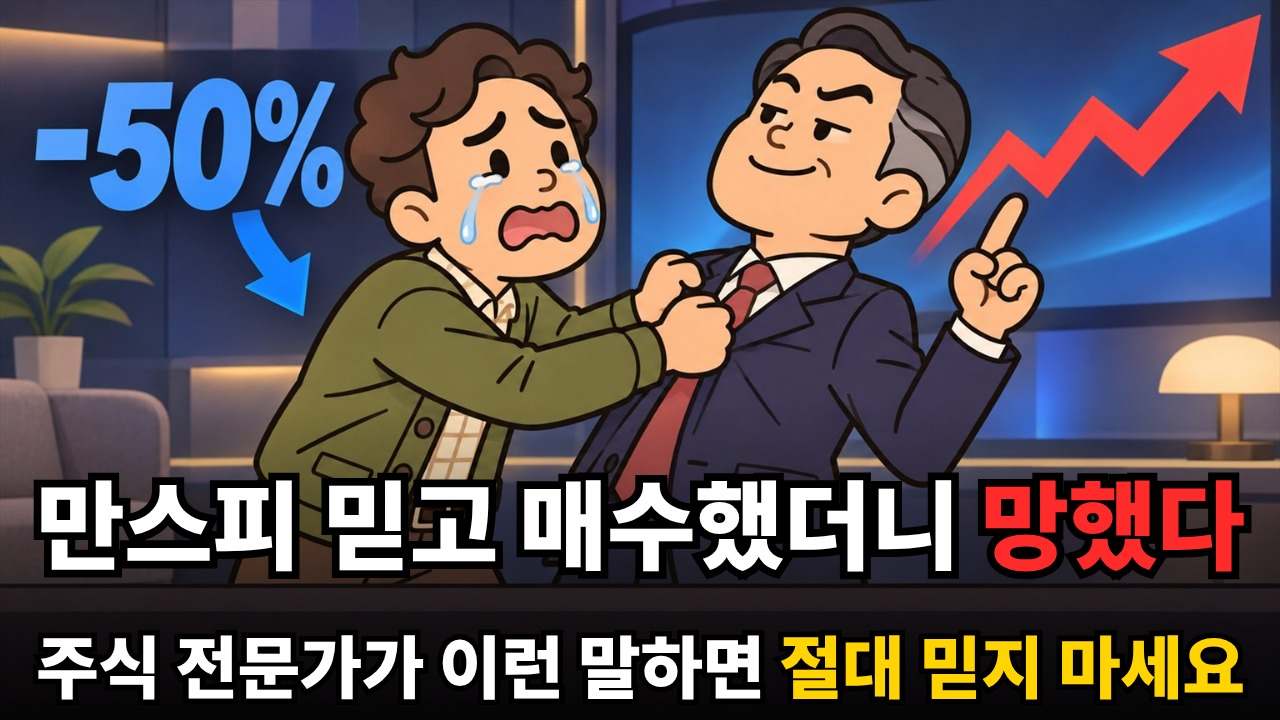
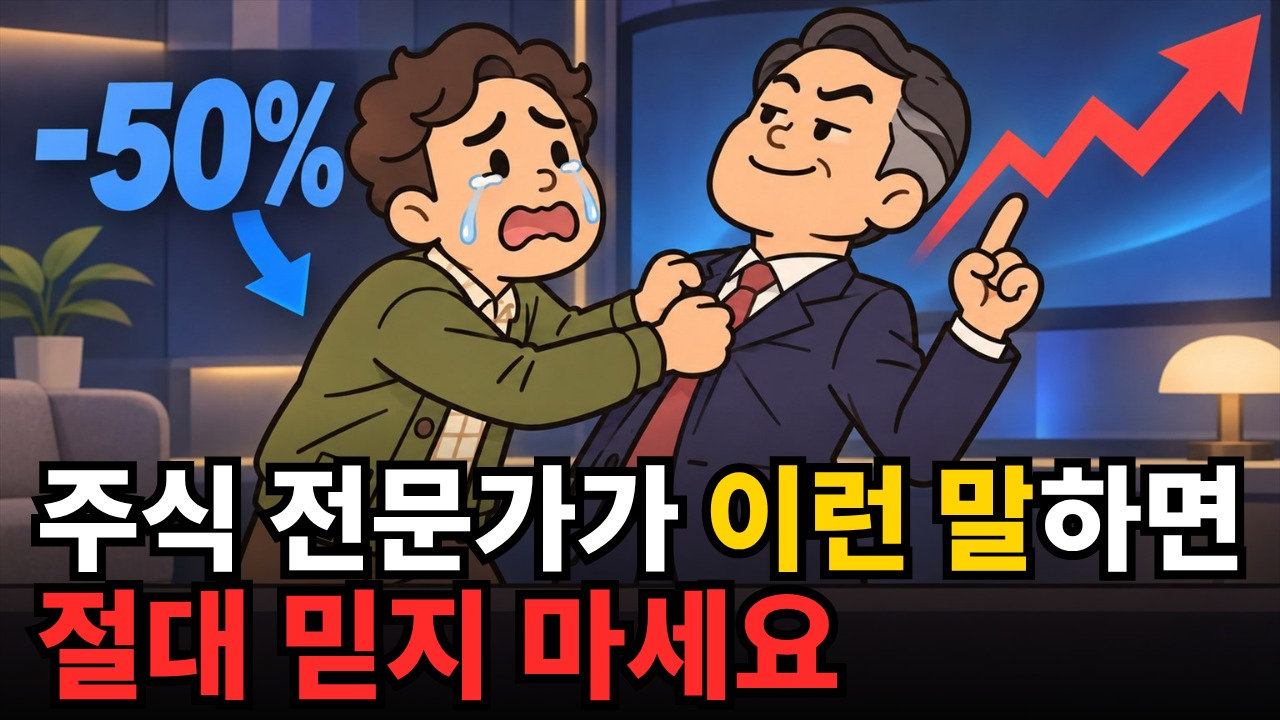
[stock] 만스피 편 롱폼 썸네일 — 문구를 '주식 전문가가 이런 말하면 / 절대 믿지 마세요' 두 줄로 (사용자 지시)
Claude-Session: https://claude.ai/code/session_01PYG2Mpa9VxWz6vRTbxwQ5c

Changed region(s): [[0.0, 0.6111, 1.0, 0.9778]]

diff --git a/stock/source/manspi-jeonmang-2026-11/upload.md b/stock/source/manspi-jeonmang-2026-11/upload.md
@@ -83,7 +83,7 @@ python tools/srt_tool.py upload stock/source/manspi-jeonmang-2026-11/manspi-jeon
 | 항목 | 값 |
 |---|---|
 | 공개 상태 | 비공개로 올린 뒤 예약 공개 |
-| 썸네일 | `thumbnails/thumbnail_1.jpg` (1280×720 — 그림 `images/TH-CHAR.jpg` ChatGPT 캐릭터 + 문구 코드 `thumb.mjs`: '만스피 믿고 매수했더니 망했다' / '주식 전문가가 이런 말하면 절대 믿지 마세요' — 사용자 문구) · ⚠ 그림 속 '-50%' 는 ChatGPT 가 그려 넣은 것 (대본 43.3%·44.5% 와 다름 — 사용자가 그대로 둠) |
+| 썸네일 | `thumbnails/thumbnail_1.jpg` (1280×720 — 그림 `images/TH-CHAR.jpg` ChatGPT 캐릭터 + 문구 코드 `thumb.mjs`: '주식 전문가가 이런 말하면 / 절대 믿지 마세요' — 사용자 문구 2026-11-09) · ⚠ 그림 속 '-50%' 는 ChatGPT 가 그려 넣은 것 (대본 43.3%·44.5% 와 다름 — 사용자가 그대로 둠) |
 | 자막 | `manspi-jeonmang-2026-11.srt` (오디오 뒤 `align-audio`) |
 | 카테고리 | 교육 |
 | 동영상 언어 · 기본 언어 | 한국어 · ko |
